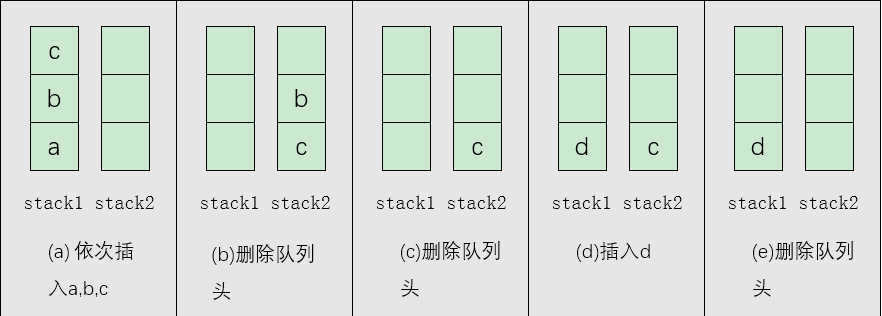
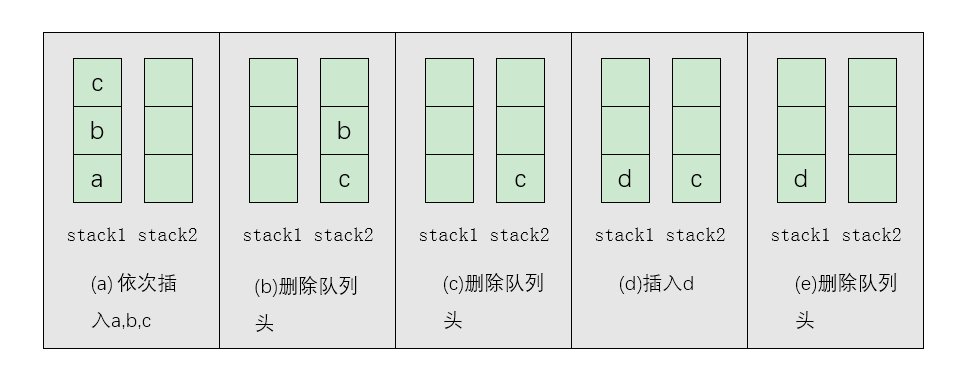
更新第八题

diff --git a/src/datastrcture/problem_09/readme.md b/src/datastrcture/problem_09/readme.md
@@ -8,7 +8,7 @@
 删除节点的功能。
 在图中二叉树的中序遍历序列是{d, b, h, e, i, a, f, c, g}。我们将以这颗树为例来分析如何找出二叉树的下一个节点。
 
-<div align=center><img width="800" height="300" src="queue.png"/></div>  
+<div align=center><img width="600" height="250" src="queue.png"/></div>  
 
 上图是一颗有9个节点的二叉树。树中从父节点指向子节点的指针用实线表示，子节点指向父节点的指针用虚线表示。  
 
